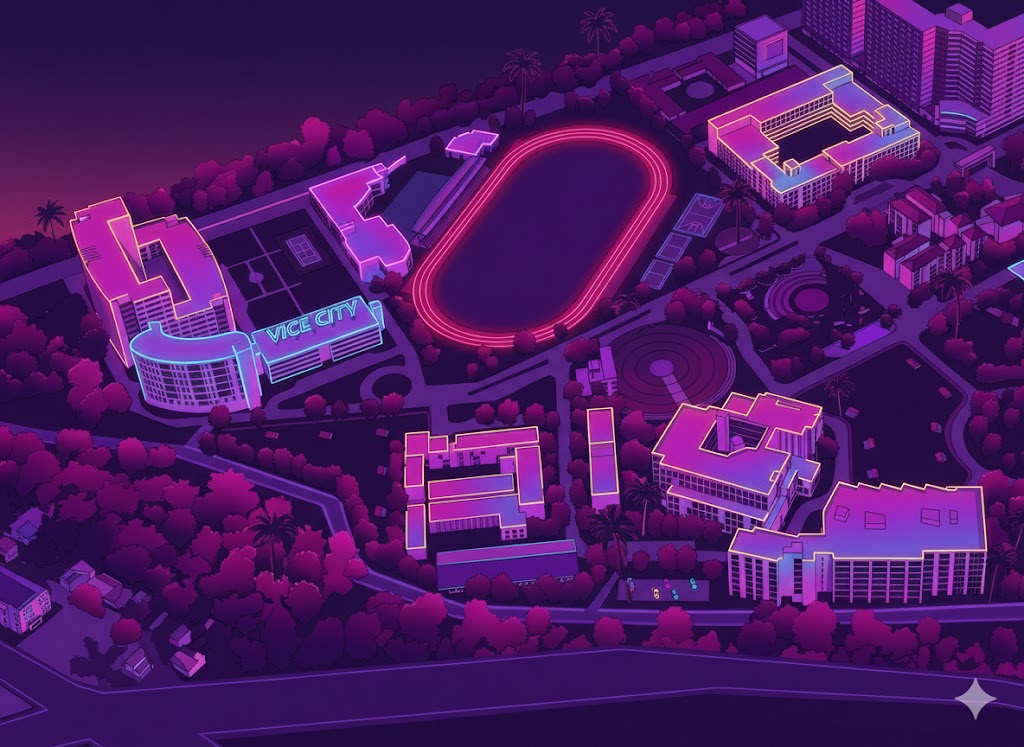
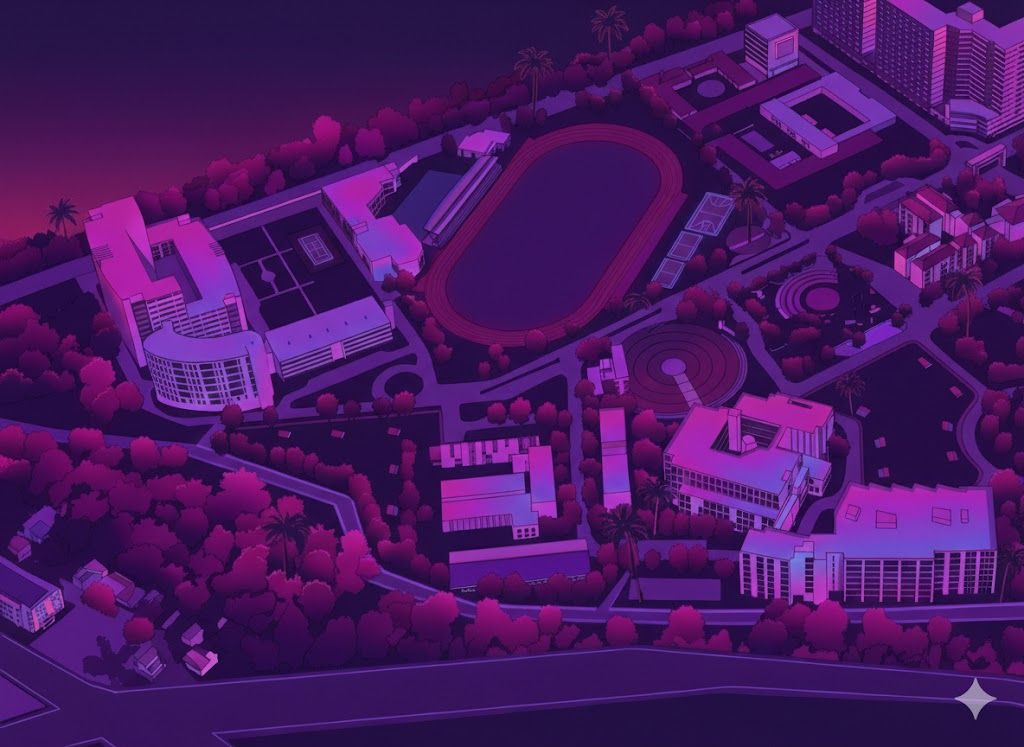
removed neon from map and also footer name changes

diff --git a/src/footer.tsx b/src/footer.tsx
@@ -86,11 +86,11 @@ export default function Footer() {
               </li>
               <li className="flex items-center gap-3">
                 <Phone className="w-4 h-4 text-pink-300 shrink-0" />
-                <span>Aditi Kanagala: <a href="tel:+919820493896" className="hover:text-pink-300 transition-colors">+91 98204 93896</a></span>
+                <span>Tanish Shetty: <a href="tel:+917700048974" className="hover:text-pink-300 transition-colors">+91 77000 48974</a></span>
               </li>
               <li className="flex items-center gap-3">
                 <Phone className="w-4 h-4 text-pink-300 shrink-0" />
-                <span>Tanish Shetty: <a href="tel:+917700048974" className="hover:text-pink-300 transition-colors">+91 77000 48974</a></span>
+                <span>Aditi Kanagala: <a href="tel:+919820493896" className="hover:text-pink-300 transition-colors">+91 98204 93896</a></span>
               </li>
             </ul>
           </div>

diff --git a/src/Gta_map.tsx b/src/Gta_map.tsx
@@ -41,7 +41,7 @@ const GTAMinimapEmbed: React.FC = () => {
         onClick={openMaps}
         aria-label="Open K J Somaiya College of Engineering in Google Maps"
         className="
-          relative rounded-full p-[6px] bg-pink-400 cursor-pointer
+          relative rounded-full p-[5px] bg-pink-400 cursor-pointer
           transition hover:scale-105 hover:brightness-110
 
           w-24 h-24   /* ✅ slightly larger on phones */
